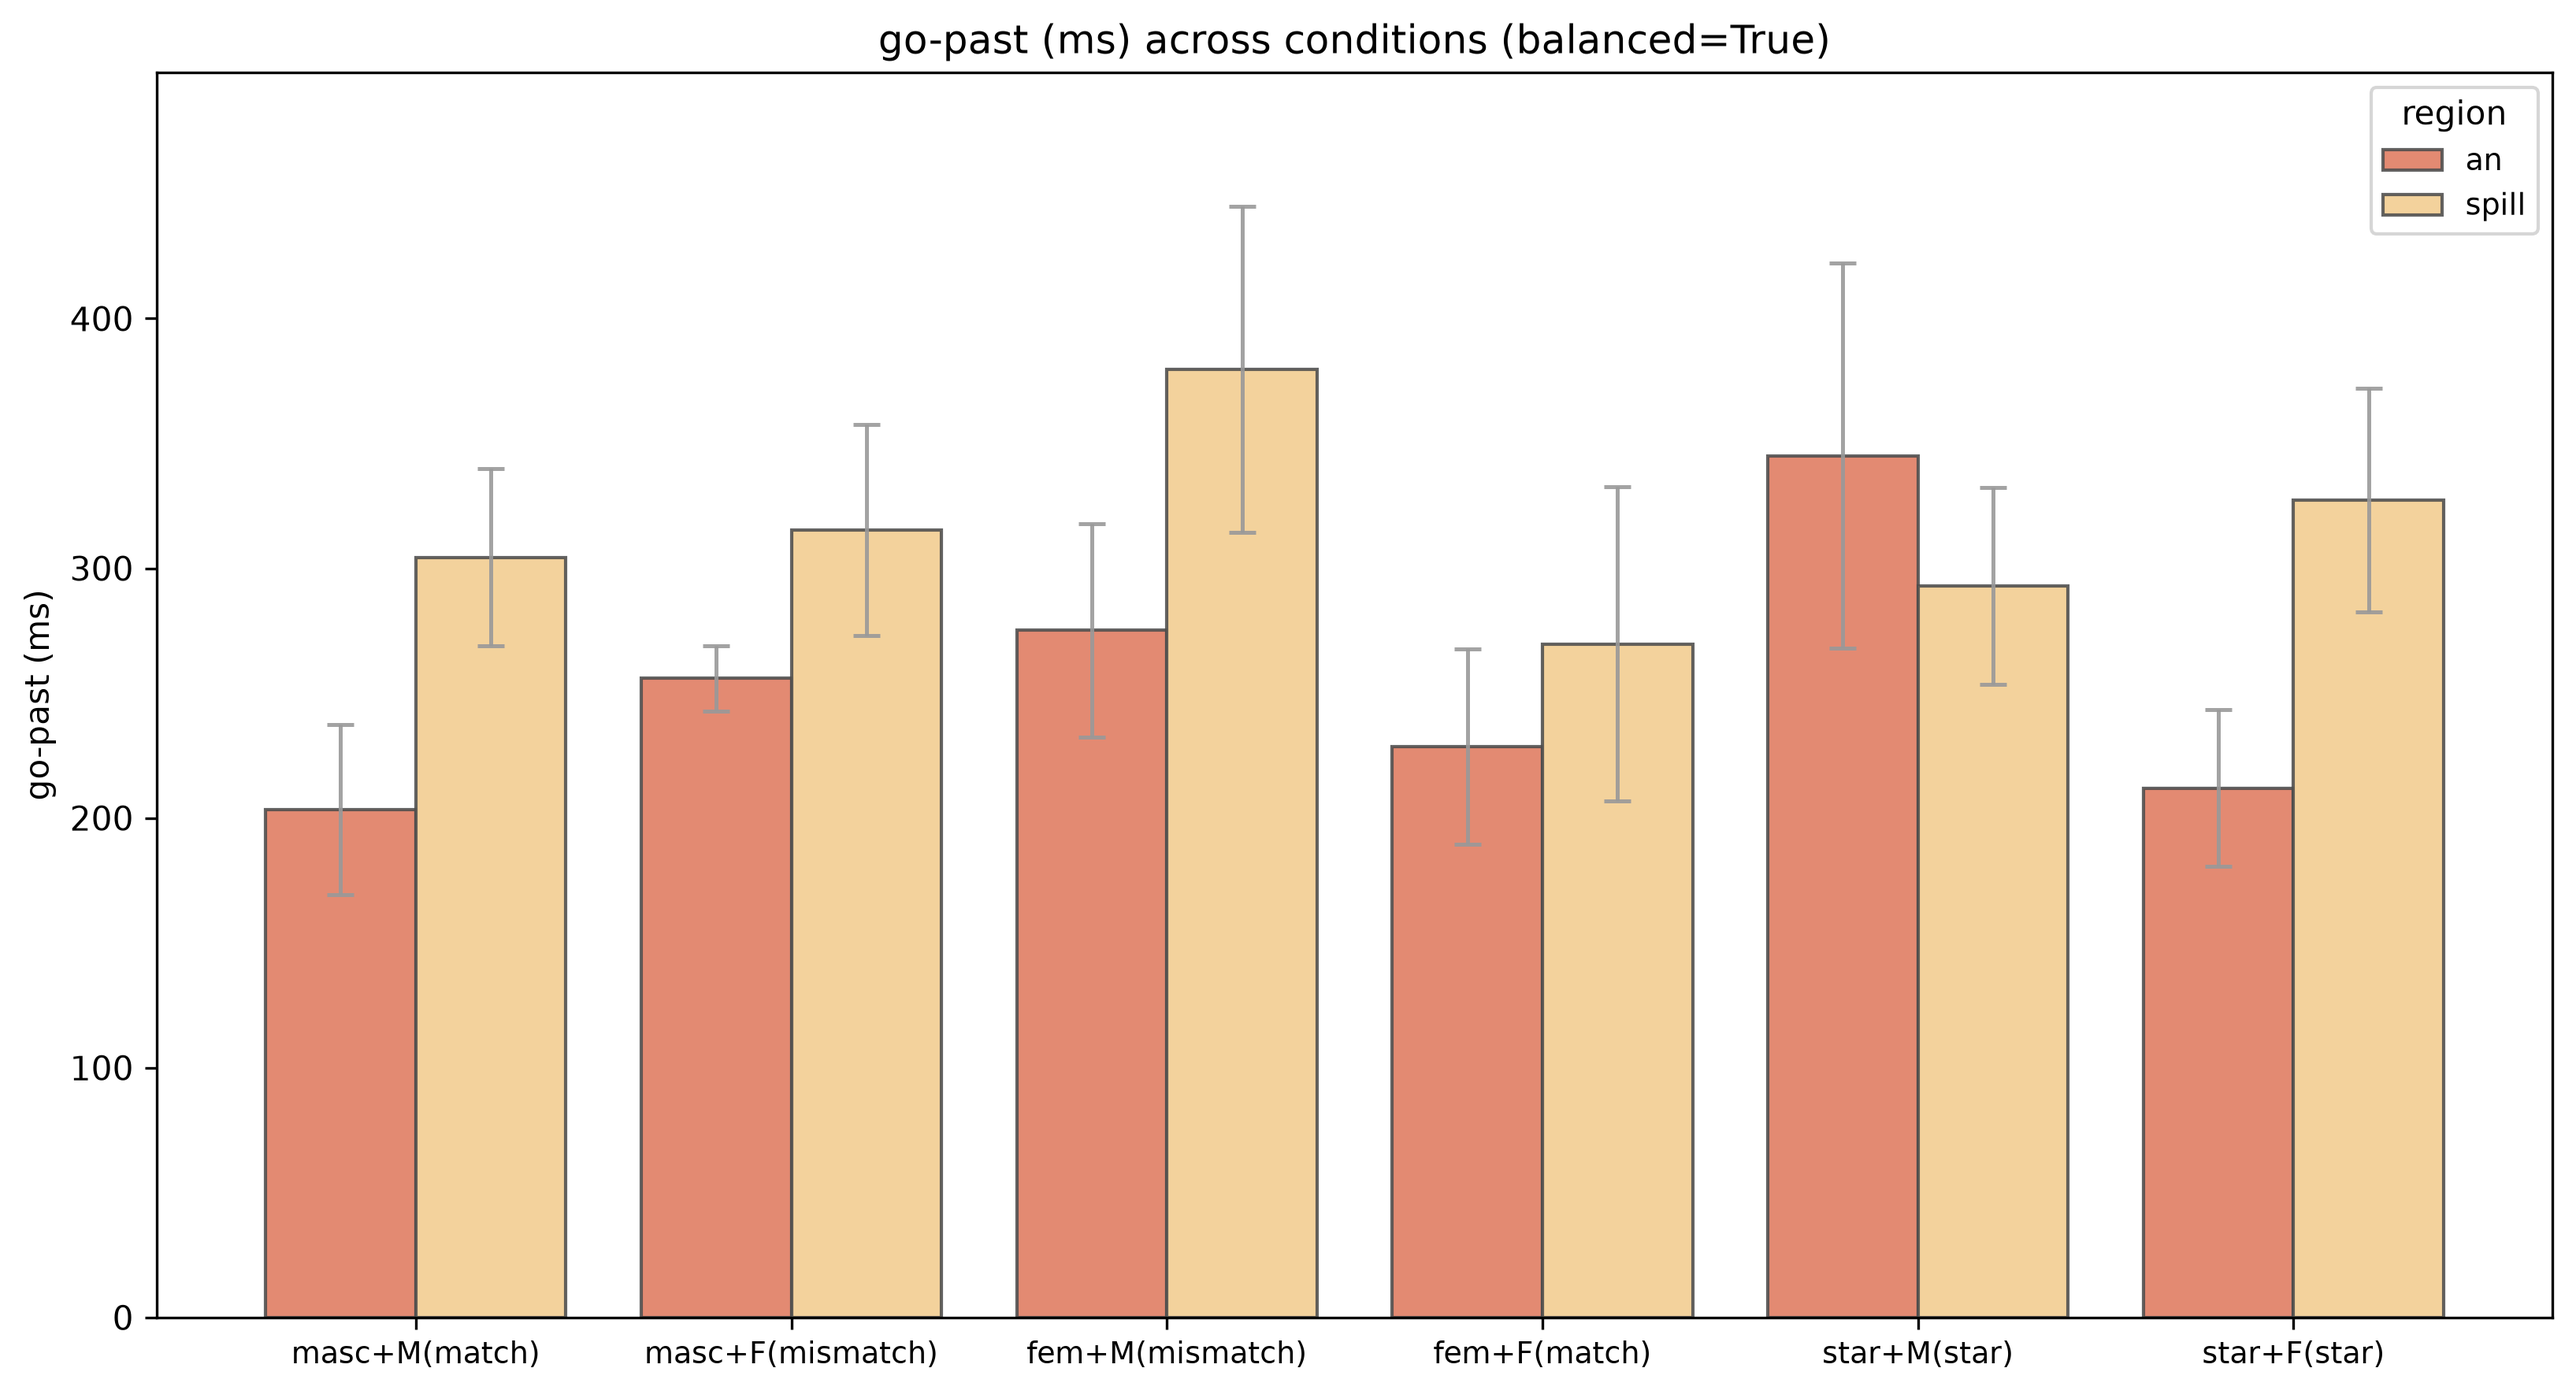
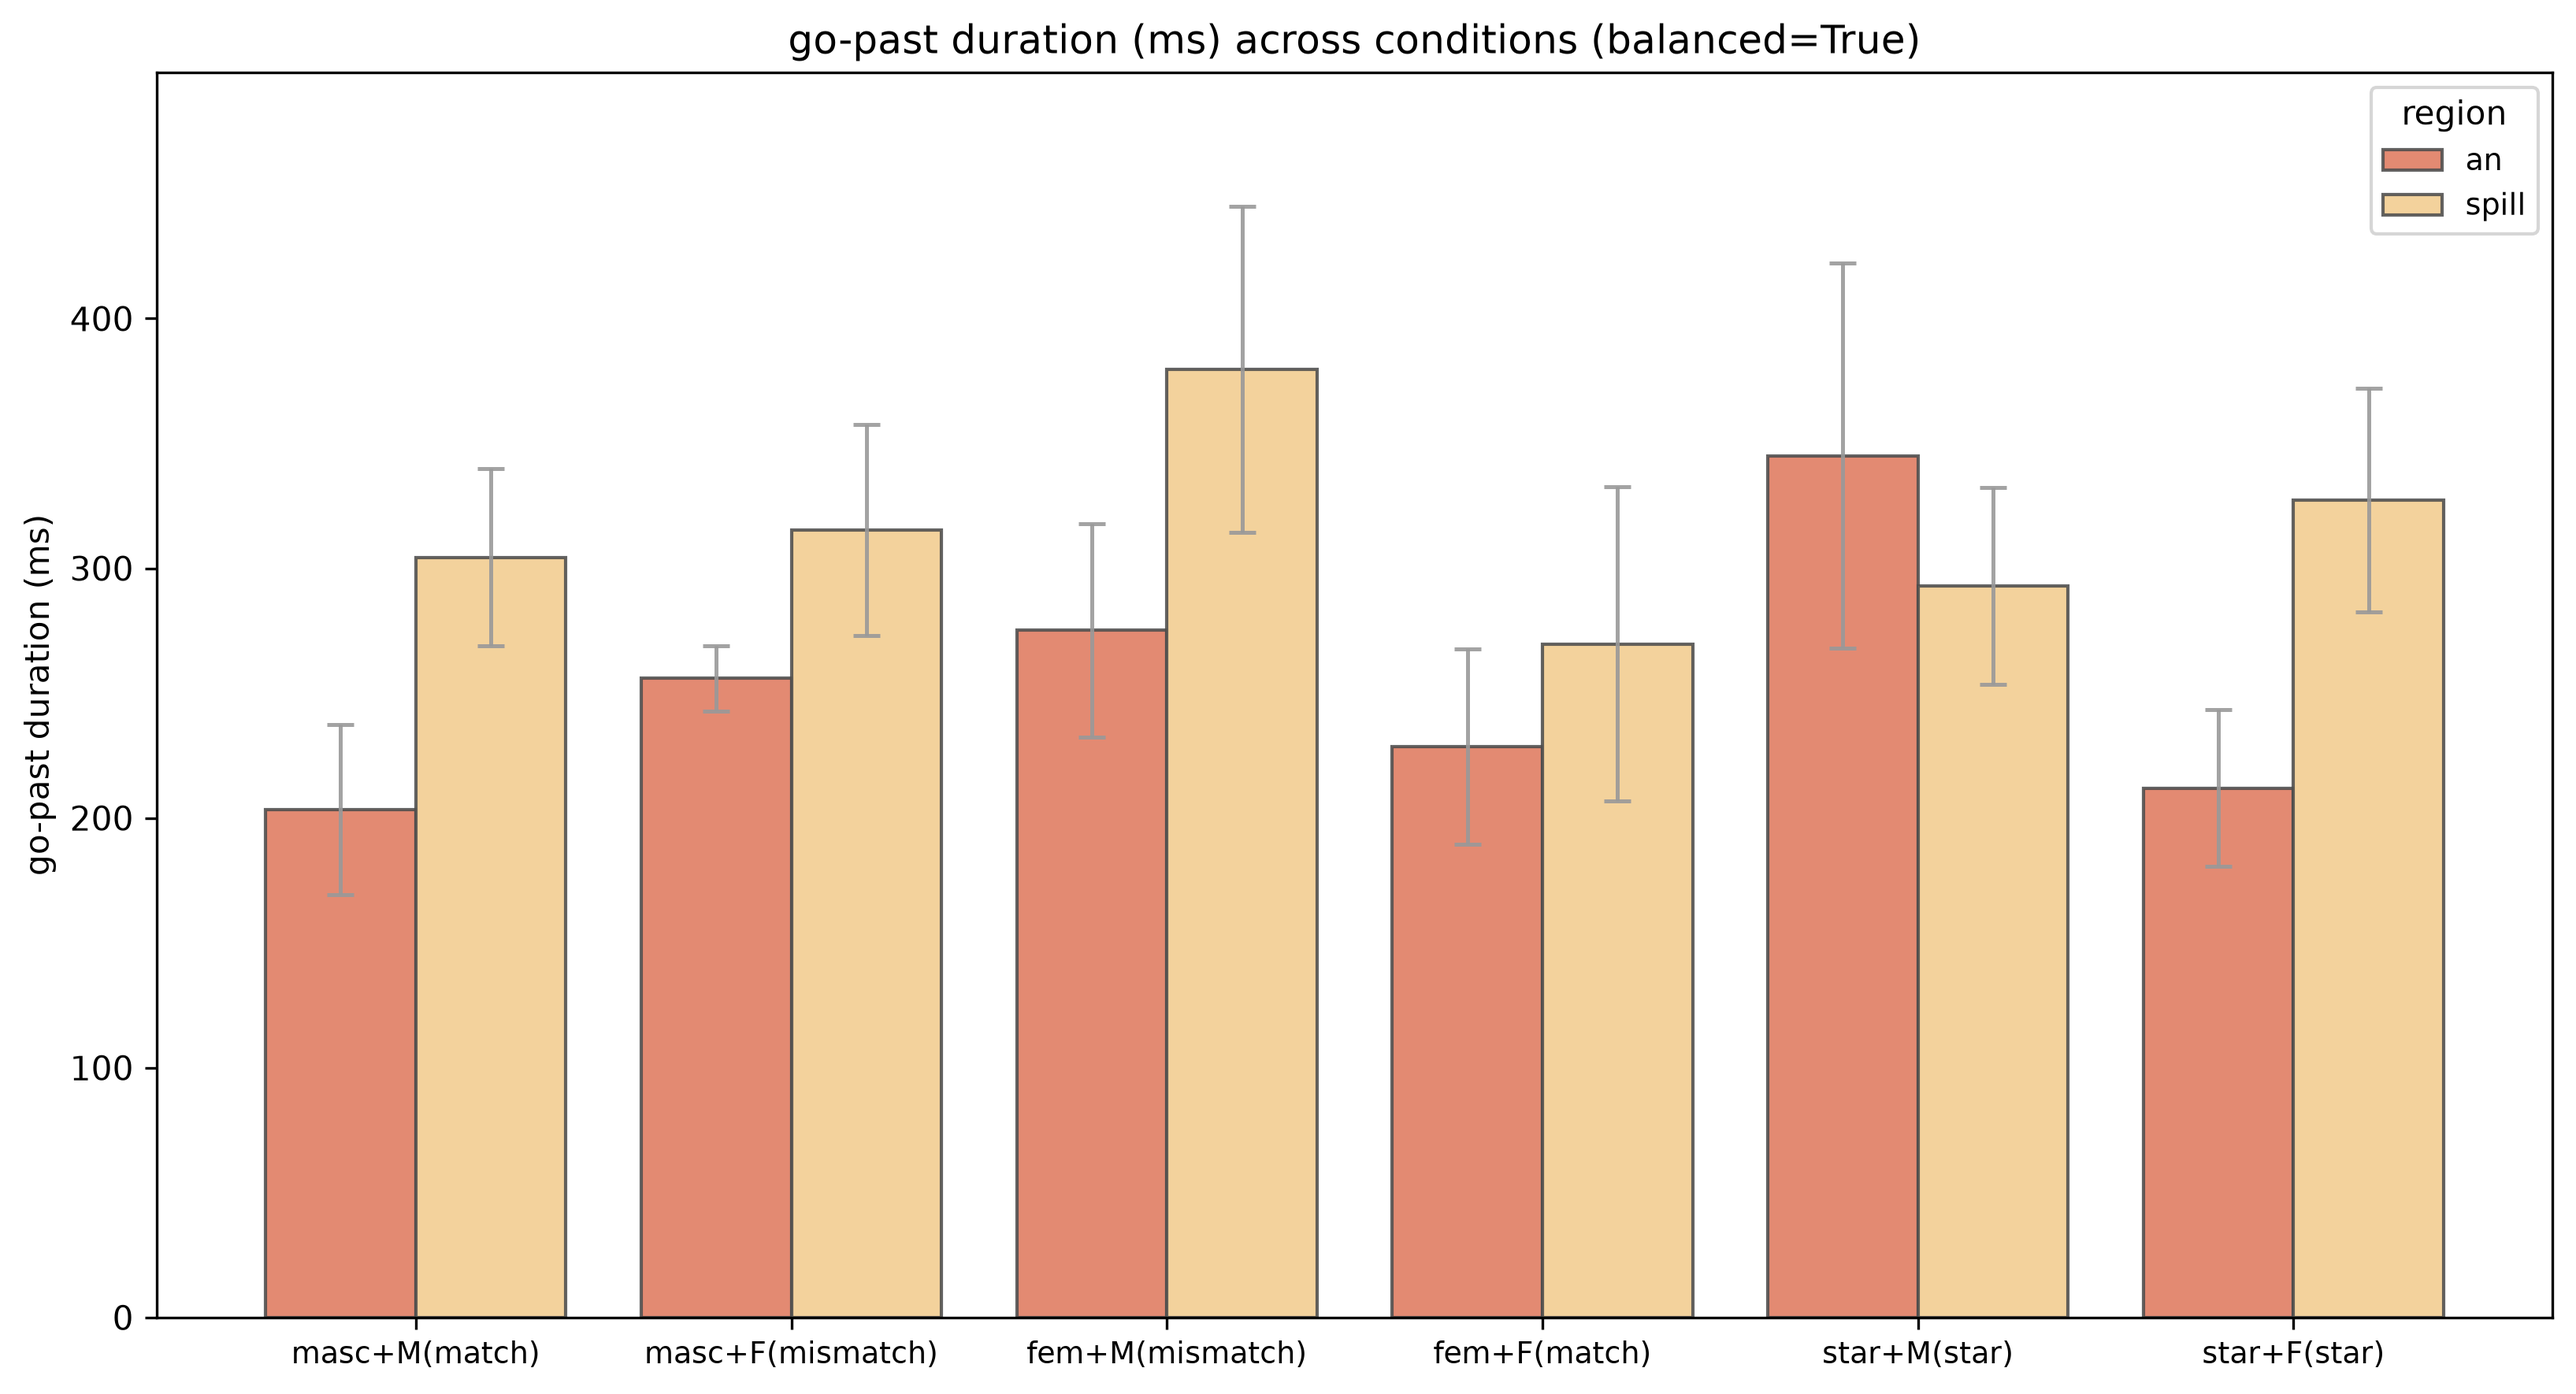
fix the measure name

Changed region(s): [[0.3119, 0.0, 0.7486, 0.0621], [0.0, 0.3729, 0.0312, 0.5904]]

diff --git a/src/measures.py b/src/measures.py
@@ -49,13 +49,13 @@ def fixation_measures(seqs, aois, exclusion, n_areas=3, right_to_left=False):
             aoi = make_interest_area(raw_aoi, label=aoi_type,
                                      right_to_left=right_to_left)
             rows.append({
-                "trial_id":            trial_id,
-                "aoi_type":            aoi_type,
-                "n_fixations":         number_of_fixations(aoi, seq),
-                "first_pass_duration": initial_fixation_duration(aoi, seq),
-                "total_duration":      total_fixation_duration(aoi, seq),
-                "go_past_duration":    go_past_duration(aoi, seq),
-                "regressions_in":      number_of_regressions_in(aoi, seq),
+                "trial_id": trial_id,
+                "aoi_type": aoi_type,
+                "n_fixations": number_of_fixations(aoi, seq),
+                "initial_fixation_duration": initial_fixation_duration(aoi, seq),
+                "total_fixation_duration": total_fixation_duration(aoi, seq),
+                "go_past_duration": go_past_duration(aoi, seq),
+                "regressions_in": number_of_regressions_in(aoi, seq),
             })
     return pd.DataFrame(rows)
 

diff --git a/src/visualization.py b/src/visualization.py
@@ -361,9 +361,9 @@ def plot_measure(results, measure, condition_map, regions=('rn', 'an', 'spill'),
     ax.set_xticklabels(labels, fontsize=9)
     
     ylab_map = {
-        'first_pass_duration': 'first-pass fixation (ms)',
-        'total_duration': 'total fixation (ms)',
-        'go_past_duration': 'go-past (ms)',
+        'initial_fixation_duration': 'initial fixation duration (ms)',
+        'total_duration': 'total fixation duration (ms)',
+        'go_past_duration': 'go-past duration (ms)',
         'regressions_in': 'regression-in (count)',
         'n_fixations': 'fixations (count)'
     }

diff --git a/scripts/04_analysis.py b/scripts/04_analysis.py
@@ -43,7 +43,7 @@ def run(balanced=False):
     io.save_output(results, tag,"analysis_results.csv")
 
     for measure in config.MEASURES:
-        if measure in ["first_pass_duration","go_past_duration"]:
+        if measure in ["initial_fixation_duration","go_past_duration"]:
             plot_measure(results, measure, condition_map=config.CONDITION_MAP, balanced=balanced, show=False, regions=('an', 'spill'),
                                  save_path=io.grand_fig_path(f'{tag}/measure/{measure}'))  
         else:

diff --git a/config.py b/config.py
@@ -70,8 +70,8 @@ CONDITION_MAP = {
 # --------- Measures -------------
 MEASURES = [
      "n_fixations",
-     "first_pass_duration",
-     "total_duration",
+     "initial_fixation_duration",
+     "total_fixation_duration",
      "go_past_duration",
      "regressions_in"
 ]

diff --git a/README.md b/README.md
@@ -54,11 +54,13 @@
 >
 > -   Run: `python -m scripts.04_analysis --balanced`
 >
-> -   Purpose: AOI measures (initial-fixation, go-past duration, regression-in counts, total duration)
+> -   Purpose: AOI measures (initial fixation duration, go-past duration, regression-in counts, total fixation duration)
 >
 > -   Inspection -\> `data/processed/balanced_12/analysis_results.csv`
 >
 > **Step05. Statistics**
+>
+> -   *Note: original analysis was done without pbkrtest package, so used Satterthwaite approximation as fallback instead.*
 >
 > -   Run: `Rscript scripts/stats_lmm.R`
 >
@@ -72,7 +74,7 @@
 >
 > -   Inspection -\> `data/stats/analysis/analysis_stats.txt`; `plots/analysis/balanced_12/stats/`
 >
-> **Further quality checks (**need to complete Step01 first)
+> **Further quality checks** (need to complete Step01 first)
 >
 > -   Run: `python -m scripts.qc_events`
 >
